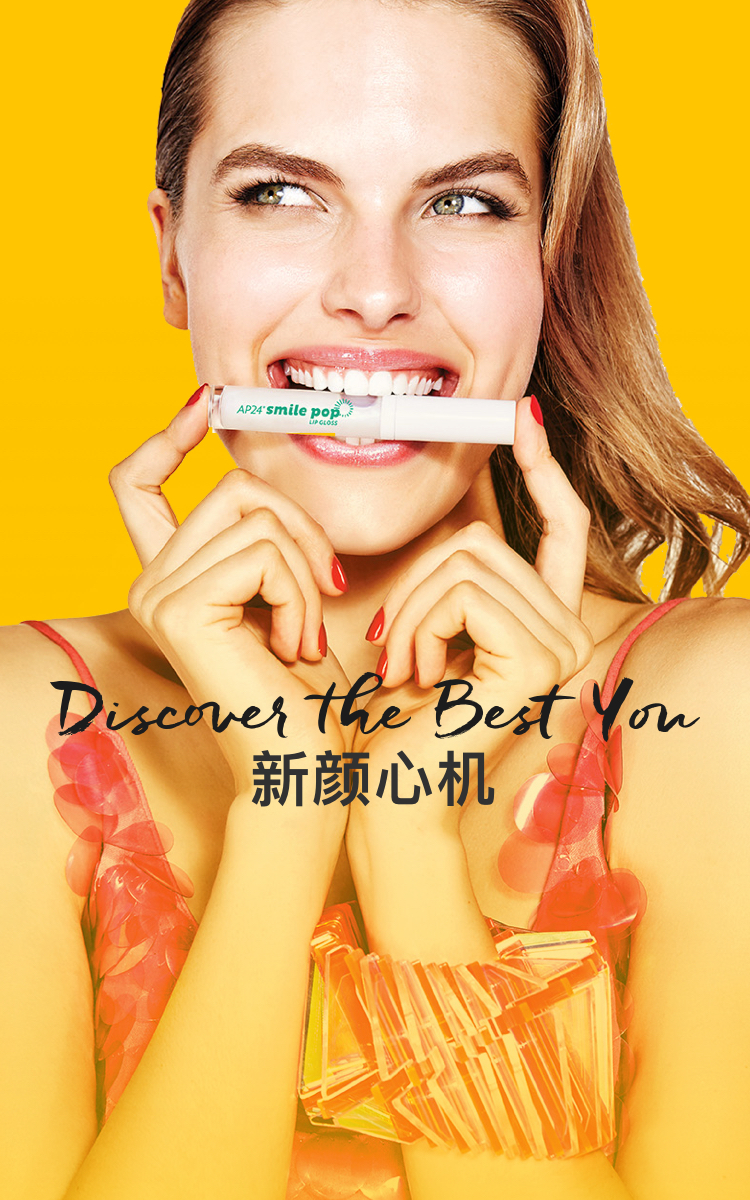
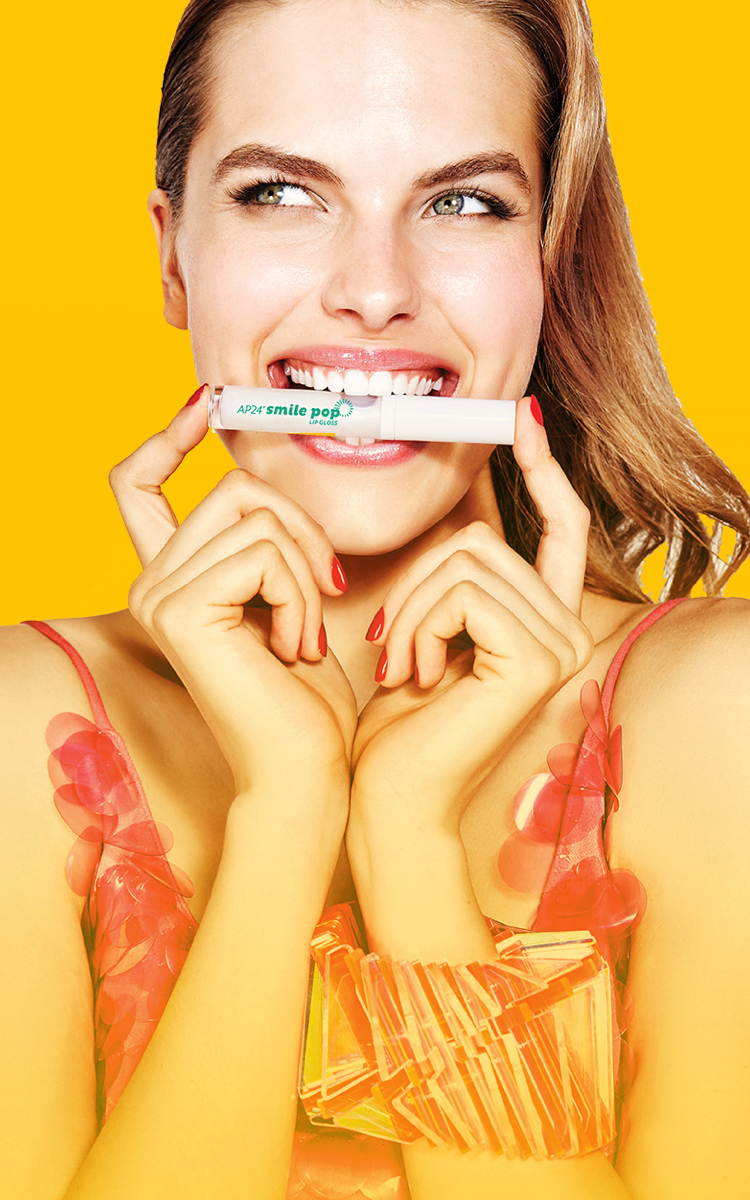
bug修复

Changed region(s): [[0.0613, 0.555, 0.92, 0.6783]]

diff --git a/index.html b/index.html
@@ -58,21 +58,28 @@
 	    	<!-- Add Arrows -->
 	        <div class="swiper-wrapper pic_list" >
 	        	<li class="swiper-slide">
-	        			<img src="images/best-you.png" class=" visible-md-block visible-lg-block best-you"/>
-	        			<div class=" visible-md-block visible-lg-block title">新颜心机</div>
-	        			<div class="visible-md-block visible-lg-block description">新动轻柔净肤露专属搭配如新新动机使用，净化同时促进肌肤更新，令肌肤显现匀净明亮，毛孔细腻，柔嫩平滑美肌触手可得。 柔软、温和的银离子抗菌医学级硅胶导头，可以温和有效清洁肌肤。</div>
+	        			<!--pc端图片-->
+	        			<img src="images/best-you.png" class=" visible-md-block visible-lg-block pc-best-you"/>
+	        			<div class=" visible-md-block visible-lg-block pc-title">新颜心机</div>
+	        			<div class="visible-md-block visible-lg-block pc-description">新动轻柔净肤露专属搭配如新新动机使用，净化同时促进肌肤更新，令肌肤显现匀净明亮，毛孔细腻，柔嫩平滑美肌触手可得。 柔软、温和的银离子抗菌医学级硅胶导头，可以温和有效清洁肌肤。</div>
+		        		<img src="temp/kv.jpg" class=" visible-md-block visible-lg-block bg"/>
 
-		        		<img src="temp/kv.jpg" class=" visible-md-block visible-lg-block bg"/><!--pc端图片-->
-		        		<img src="temp/mkv.jpg" class=" visible-xs-block visible-sm-block bg" /><!--移动端图片-->
+		        		<!--移动端图片-->
+		        		<img src="images/best-you.png" class=" visible-xs-block visible-sm-block m-best-you"/>
+	        			<div class=" visible-xs-block visible-sm-block m-title">新颜心机</div>
+		        		<img src="temp/mkv.jpg" class=" visible-xs-block visible-sm-block bg" />
 	        			<a href="#">了解更多</a>
 	        	</li>
 	        	<li class="swiper-slide">
-
-	        			<img src="images/best-you.png" class=" visible-md-block visible-lg-block best-you"/>
-	        			<div class=" visible-md-block visible-lg-block title">新颜心机</div>
-	        			<div class="visible-md-block visible-lg-block description">新动轻柔净肤露专属搭配如新新动机使用，净化同时促进肌肤更新，令肌肤显现匀净明亮，毛孔细腻，柔嫩平滑美肌触手可得。 柔软、温和的银离子抗菌医学级硅胶导头，可以温和有效清洁肌肤。</div>
-
+	        			<!--pc端图片-->
+	        			<img src="images/best-you.png" class=" visible-md-block visible-lg-block pc-best-you"/>
+	        			<div class=" visible-md-block visible-lg-block pc-title">新颜心机</div>
+	        			<div class="visible-md-block visible-lg-block pc-description">新动轻柔净肤露专属搭配如新新动机使用，净化同时促进肌肤更新，令肌肤显现匀净明亮，毛孔细腻，柔嫩平滑美肌触手可得。 柔软、温和的银离子抗菌医学级硅胶导头，可以温和有效清洁肌肤。</div>
 	        			<img src="temp/kv.jpg" class=" visible-md-block visible-lg-block bg"/>
+
+	        			<!--移动端图片-->
+		        		<img src="images/best-you.png" class=" visible-xs-block visible-sm-block m-best-you"/>
+	        			<div class=" visible-xs-block visible-sm-block m-title">新颜心机</div>
 	        			<img src="temp/mkv.jpg" class=" visible-xs-block visible-sm-block bg" />
 	        			<a href="#">了解更多</a>
 	        	</li>
@@ -102,36 +109,36 @@
 			<i></i>
 		</div>
 	</div>
-	<div class="row pro_list" id="hot_pro_list">
+	<div class="row pro_list hot_pro_list" id="hot_pro_list">
 		<li class="col-md-3 col-lg-2 col-lg-offset-2 ">
 			<a  href="#">
 				<div class="wrap">
-					<div class="new"></div>
+					<div class="new visible-lg-block visible-md-block"></div>
 					<div class="image"><img src="temp/proimg.png" /></div>
-					<div class="name visible-lg-block">如新柔润爽肤水</div>
-					<div class="price visible-lg-block">￥150.00</div>
+					<div class="name visible-lg-block visible-md-block">如新柔润爽肤水</div>
+					<div class="price visible-lg-block visible-md-block">￥150.00</div>
 				</div>
-				<img src="images/box_shadow.png" class="box_shadow visible-lg-block" />
+				<img src="images/box_shadow.png" class="box_shadow visible-lg-block visible-md-block" />
 			</a>
 		</li>
 		<li class="col-md-3 col-lg-2">
 			<a  href="#">
 				<div class="wrap">
 					<div class="image"><img src="temp/proimg1.png" /></div>
-					<div class="name visible-lg-block">如新柔润爽肤水</div>
-					<div class="price visible-lg-block">￥150.00</div>
+					<div class="name visible-lg-block visible-md-block">如新柔润爽肤水</div>
+					<div class="price visible-lg-block visible-md-block">￥150.00</div>
 				</div>
-				<img src="images/box_shadow.png" class="box_shadow visible-lg-block" />
+				<img src="images/box_shadow.png" class="box_shadow visible-lg-block visible-md-block" />
 			</a>
 		</li>
 		<li class="col-md-3 col-lg-2">
 			<a  href="#">
 				<div class="wrap">
 					<div class="image"><img src="temp/proimg3.jpg" /></div>
-					<div class="name visible-lg-block">如新柔润爽肤水</div>
-					<div class="price visible-lg-block">￥150.00</div>
+					<div class="name visible-lg-block visible-md-block">如新柔润爽肤水</div>
+					<div class="price visible-lg-block visible-md-block">￥150.00</div>
 				</div>
-				<img src="images/box_shadow.png" class="box_shadow visible-lg-block" />
+				<img src="images/box_shadow.png" class="box_shadow visible-lg-block visible-md-block" />
 			</a>
 		</li>
 		
@@ -139,10 +146,10 @@
 			<a  href="#">
 				<div class="wrap">
 					<div class="image"><img src="temp/proimg4.jpg" /></div>
-					<div class="name visible-lg-block">如新柔润爽肤水</div>
-					<div class="price visible-lg-block">￥1502.00</div>
+					<div class="name visible-lg-block visible-md-block">如新柔润爽肤水</div>
+					<div class="price visible-lg-block visible-md-block">￥1502.00</div>
 				</div>
-				<img src="images/box_shadow.png" class="box_shadow visible-lg-block" />
+				<img src="images/box_shadow.png" class="box_shadow visible-lg-block visible-md-block" />
 			</a>
 		</li>
 		
@@ -152,30 +159,30 @@
 					<div class="wrap">
 						<div class="new"></div>
 						<div class="image"><img src="temp/proimg.png" /></div>
-						<div class="name visible-lg-block">如新柔润爽肤水</div>
-						<div class="price visible-lg-block">￥150.00</div>
+						<div class="name visible-lg-block visible-md-block">如新柔润爽肤水</div>
+						<div class="price visible-lg-block visible-md-block">￥150.00</div>
 					</div>
-					<img src="images/box_shadow.png" class="box_shadow visible-lg-block" />
+					<img src="images/box_shadow.png" class="box_shadow visible-lg-block visible-md-block" />
 				</a>
 			</li>
 			<li class="col-md-3 col-lg-2">
 				<a  href="#">
 					<div class="wrap">
 						<div class="image"><img src="temp/proimg1.png" /></div>
-						<div class="name visible-lg-block">如新柔润爽肤水</div>
-						<div class="price visible-lg-block">￥150.00</div>
+						<div class="name visible-lg-block visible-md-block">如新柔润爽肤水</div>
+						<div class="price visible-lg-block visible-md-block">￥150.00</div>
 					</div>
-					<img src="images/box_shadow.png" class="box_shadow visible-lg-block" />
+					<img src="images/box_shadow.png" class="box_shadow visible-lg-block visible-md-block" />
 				</a>
 			</li>
 			<li class="col-md-3 col-lg-2">
 				<a  href="#">
 					<div class="wrap">
 						<div class="image"><img src="temp/proimg3.jpg" /></div>
-						<div class="name visible-lg-block">如新柔润爽肤水</div>
-						<div class="price visible-lg-block">￥150.00</div>
+						<div class="name visible-lg-block visible-md-block">如新柔润爽肤水</div>
+						<div class="price visible-lg-block visible-md-block">￥150.00</div>
 					</div>
-					<img src="images/box_shadow.png" class="box_shadow visible-lg-block" />
+					<img src="images/box_shadow.png" class="box_shadow visible-lg-block visible-md-block" />
 				</a>
 			</li>
 			
@@ -183,10 +190,10 @@
 				<a  href="#">
 					<div class="wrap">
 						<div class="image"><img src="temp/proimg4.jpg" /></div>
-						<div class="name visible-lg-block">如新柔润爽肤水</div>
-						<div class="price visible-lg-block">￥1502.00</div>
+						<div class="name visible-lg-block visible-md-block">如新柔润爽肤水</div>
+						<div class="price visible-lg-block visible-md-block">￥1502.00</div>
 					</div>
-					<img src="images/box_shadow.png" class="box_shadow visible-lg-block" />
+					<img src="images/box_shadow.png" class="box_shadow visible-lg-block visible-md-block" />
 				</a>
 			</li>
 			

diff --git a/css/style.css b/css/style.css
@@ -35,9 +35,12 @@ a.mobile_buycar{width: 30px;height: 30px;background: url(../images/mobile_buycar
 
 .kv{position: relative;}
 .kv_pic .bg,.mkv_pic .bg{width: 100%;}
-.kv_pic .best-you{position: absolute; left: 62%; top: 28%; width: 24%;}
-.kv_pic .title{position: absolute; left: 62.5%; top: 35.5%; font-size: 24px; font-weight: bold; font-family: '微软雅黑';}
-.kv_pic .description{position: absolute; left: 62.5%; top: 45.5%; font-size: 11px; font-family: '微软雅黑'; width: 30%;}
+.kv_pic .pc-best-you{position: absolute; left: 62%; top: 28%; width: 24%;}
+.kv_pic .pc-title{position: absolute; left: 62.5%; top: 35.5%; font-size: 24px; font-weight: bold; font-family: '微软雅黑';}
+.kv_pic .pc-description{position: absolute; left: 62.5%; top: 45.5%; font-size: 11px; font-family: '微软雅黑'; width: 30%;}
+
+.kv_pic .m-best-you{position: absolute; left: 7.5%; top: 56%; width: 85%;}
+.kv_pic .m-title{position: absolute; left:0; top: 61.2%; font-size: 30px; font-weight: bold; font-family: '微软雅黑'; text-align: center; width: 100%;}
 
 .kv_nav{background: #F7F7F7;height: 40px;position: relative;}
 .kv_pagination{position: absolute;left: 50%;top: 50%;transform: translate(-50%,-50%);}
@@ -124,12 +127,13 @@ a.rxbtn{margin-top:50px;}
 	.logo img{width: 60px;}
 	.pro_list{padding:0 30px;}
 	.pro_list li .name, .about_list li .name,.pro_list li .price, .about_list li .price{font-size:18px;}
+	.hot_pro_list li .wrap, .about_list li .wrap{border: none;}
 	.kv_pic li a{width: 160px;height: 40px;background: #fff;color: #000;text-align: center;line-height: 40px;font-size:14px;position: absolute;z-index: 10;bottom:10%;left: 50%;margin-left:-80px;border-radius: 3px;}
-.gpic{position: relative;}
-.gpic h3{position: absolute;z-index: 10;color: #fff;font-size:32px;width: 100%;text-align: center;top: 25%;}
-.gpic .abtn{width: 160px;height: 40px;background: #fff;color: #000;text-align: center;line-height: 40px;font-size:14px;position: absolute;z-index: 10;top:60%;left: 50%;margin-left:-80px;display: block;border-radius: 3px;}
-.ruxin{background: url(../images/bg1.png) no-repeat -100% -100px;}
-.gpic .abtn2{width: 160px;height: 40px;background: #fff;color: #000;text-align: center;line-height: 40px;font-size:14px;position: absolute;z-index: 10;top:65%;left: 10%;display: block;border-radius: 3px;}
+	.gpic{position: relative;}
+	.gpic h3{position: absolute;z-index: 10;color: #fff;font-size:32px;width: 100%;text-align: center;top: 25%;}
+	.gpic .abtn{width: 160px;height: 40px;background: #fff;color: #000;text-align: center;line-height: 40px;font-size:14px;position: absolute;z-index: 10;top:60%;left: 50%;margin-left:-80px;display: block;border-radius: 3px;}
+	.ruxin{background: url(../images/bg1.png) no-repeat -100% -100px;}
+	.gpic .abtn2{width: 160px;height: 40px;background: #fff;color: #000;text-align: center;line-height: 40px;font-size:14px;position: absolute;z-index: 10;top:65%;left: 10%;display: block;border-radius: 3px;}
 
 }
 @media (min-width:768px){
@@ -152,11 +156,11 @@ a.rxbtn{margin-top:50px;}
 	.pro_list{padding:0 30px;}
 	.pro_list li .name, .about_list li .name,.pro_list li .price, .about_list li .price{font-size:18px;}
 	.kv_pic li a{width: 35%;height: 60px;background: #fff;color: #000;text-align: center;line-height: 60px;font-size:18px;position: absolute;z-index: 10;bottom:15%;left: 50%;margin-left:-18%;border-radius: 3px;}
-.gpic{position: relative;}
-.gpic h3{position: absolute;z-index: 10;color: #fff;font-size:36px;width: 100%;text-align: center;top: 25%;}
-.gpic .abtn{width: 160px;height: 50px;background: #fff;color: #000;text-align: center;line-height: 50px;font-size:18px;position: absolute;z-index: 10;top:60%;left: 50%;margin-left:-80px;display: block;border-radius: 3px;}
-.ruxin{background: url(../images/bg1.png) no-repeat -100% -100px;}
-.gpic .abtn2{width: 160px;height: 40px;background: #fff;color: #000;text-align: center;line-height: 40px;font-size:14px;position: absolute;z-index: 10;top:65%;left: 10%;display: block;border-radius: 3px;}
+	.gpic{position: relative;}
+	.gpic h3{position: absolute;z-index: 10;color: #fff;font-size:36px;width: 100%;text-align: center;top: 25%;}
+	.gpic .abtn{width: 160px;height: 50px;background: #fff;color: #000;text-align: center;line-height: 50px;font-size:18px;position: absolute;z-index: 10;top:60%;left: 50%;margin-left:-80px;display: block;border-radius: 3px;}
+	.ruxin{background: url(../images/bg1.png) no-repeat -100% -100px;}
+	.gpic .abtn2{width: 160px;height: 40px;background: #fff;color: #000;text-align: center;line-height: 40px;font-size:14px;position: absolute;z-index: 10;top:65%;left: 10%;display: block;border-radius: 3px;}
 }
 @media (min-width:992px){
 	.about_pic{width:150%;}
@@ -184,17 +188,18 @@ a.rxbtn{margin-top:50px;}
 	.gpic{width: 100%;overflow: hidden;}
 	.gpic img{width: auto;width:150%;margin-top:50px;position: relative;left:-25%;}
 	.kv_pic li a{width: 200px;height: 50px;background: #fff;color: #000;text-align: center;line-height: 50px;font-size:18px;position: absolute;z-index: 10;bottom:20%;left:62.5%;margin-left:0;border-radius: 3px;}
-.gpic{position: relative;}
-.gpic h3{position: absolute;z-index: 10;color: #fff;font-size:40px;left:9%;text-align: left;top: 45%;margin:0;}
-.gpic .abtn{width: 200px;height: 50px;background: #fff;color: #000;text-align: center;line-height: 50px;font-size:18px;position: absolute;z-index: 10;top:65%;left: 9%;display: block;border-radius: 3px;margin-left:0;}
+	.gpic{position: relative;}
+	.gpic h3{position: absolute;z-index: 10;color: #fff;font-size:40px;left:9%;text-align: left;top: 45%;margin:0;}
+	.gpic .abtn{width: 200px;height: 50px;background: #fff;color: #000;text-align: center;line-height: 50px;font-size:18px;position: absolute;z-index: 10;top:65%;left: 9%;display: block;border-radius: 3px;margin-left:0;}
+	.gpic .abtn2{width: 200px;height: 50px;background: #fff;color: #000;text-align: center;line-height: 50px;font-size:18px;position: absolute;z-index: 10;top:65%;left: 9%;display: block;border-radius: 3px;}
+	.title_name{padding-top:100px}
+	.title_name i{width: 30px;height: 8px;background: #DCD52C;display: block;left: 50%;margin-left:-15px;position: absolute;z-index: 1;top: 160px;}
 
-.gpic .abtn2{width: 200px;height: 50px;background: #fff;color: #000;text-align: center;line-height: 50px;font-size:18px;position: absolute;z-index: 10;top:65%;left: 9%;display: block;border-radius: 3px;}
-.title_name{padding-top:100px}
-.title_name i{width: 30px;height: 8px;background: #DCD52C;display: block;left: 50%;margin-left:-15px;position: absolute;z-index: 1;top: 160px;}
+	.shishang{background: url(../images/bg1.png) no-repeat -300px bottom;}
+	.ruxin{background: url(../images/bg1.png) no-repeat 800px 10px;}
 
 
-.shishang{background: url(../images/bg1.png) no-repeat -300px bottom;}
-.ruxin{background: url(../images/bg1.png) no-repeat 800px 10px;}
+
 }	
 @media (min-width:1200px){
 	.about_pic{width:100%;}
@@ -218,11 +223,11 @@ a.rxbtn{margin-top:50px;}
 	.gpic{width: 100%;overflow: hidden;}
 	.gpic img{width: auto;width:100%;margin-top:50px;position: relative;left:0;}
 	.kv_pic li a{width: 200px;height: 50px;background: #fff;color: #000;text-align: center;line-height: 50px;font-size:18px;position: absolute;z-index: 10;bottom:20%;left:62.5%;margin-left:0;}
-.gpic{position: relative;}
-.gpic h3{position: absolute;z-index: 10;color: #fff;font-size:36px;left:22%;text-align: left;top: 46%;margin:0;}
-.gpic .abtn,.gpic .abtn2{width: 200px;height: 50px;background: #fff;color: #000;text-align: center;line-height: 50px;font-size:18px;position: absolute;z-index: 10;top:65%;left: 22%;display: block;border-radius: 3px;margin-left:0;}
-.shishang{background: url(../images/bg1.png) no-repeat -300px bottom;}
-.ruxin{background: url(../images/bg1.png) no-repeat 190% 10px;}
+	.gpic{position: relative;}
+	.gpic h3{position: absolute;z-index: 10;color: #fff;font-size:36px;left:22%;text-align: left;top: 46%;margin:0;}
+	.gpic .abtn,.gpic .abtn2{width: 200px;height: 50px;background: #fff;color: #000;text-align: center;line-height: 50px;font-size:18px;position: absolute;z-index: 10;top:65%;left: 22%;display: block;border-radius: 3px;margin-left:0;}
+	.shishang{background: url(../images/bg1.png) no-repeat -300px bottom;}
+	.ruxin{background: url(../images/bg1.png) no-repeat 190% 10px;}
 
 
 }	
